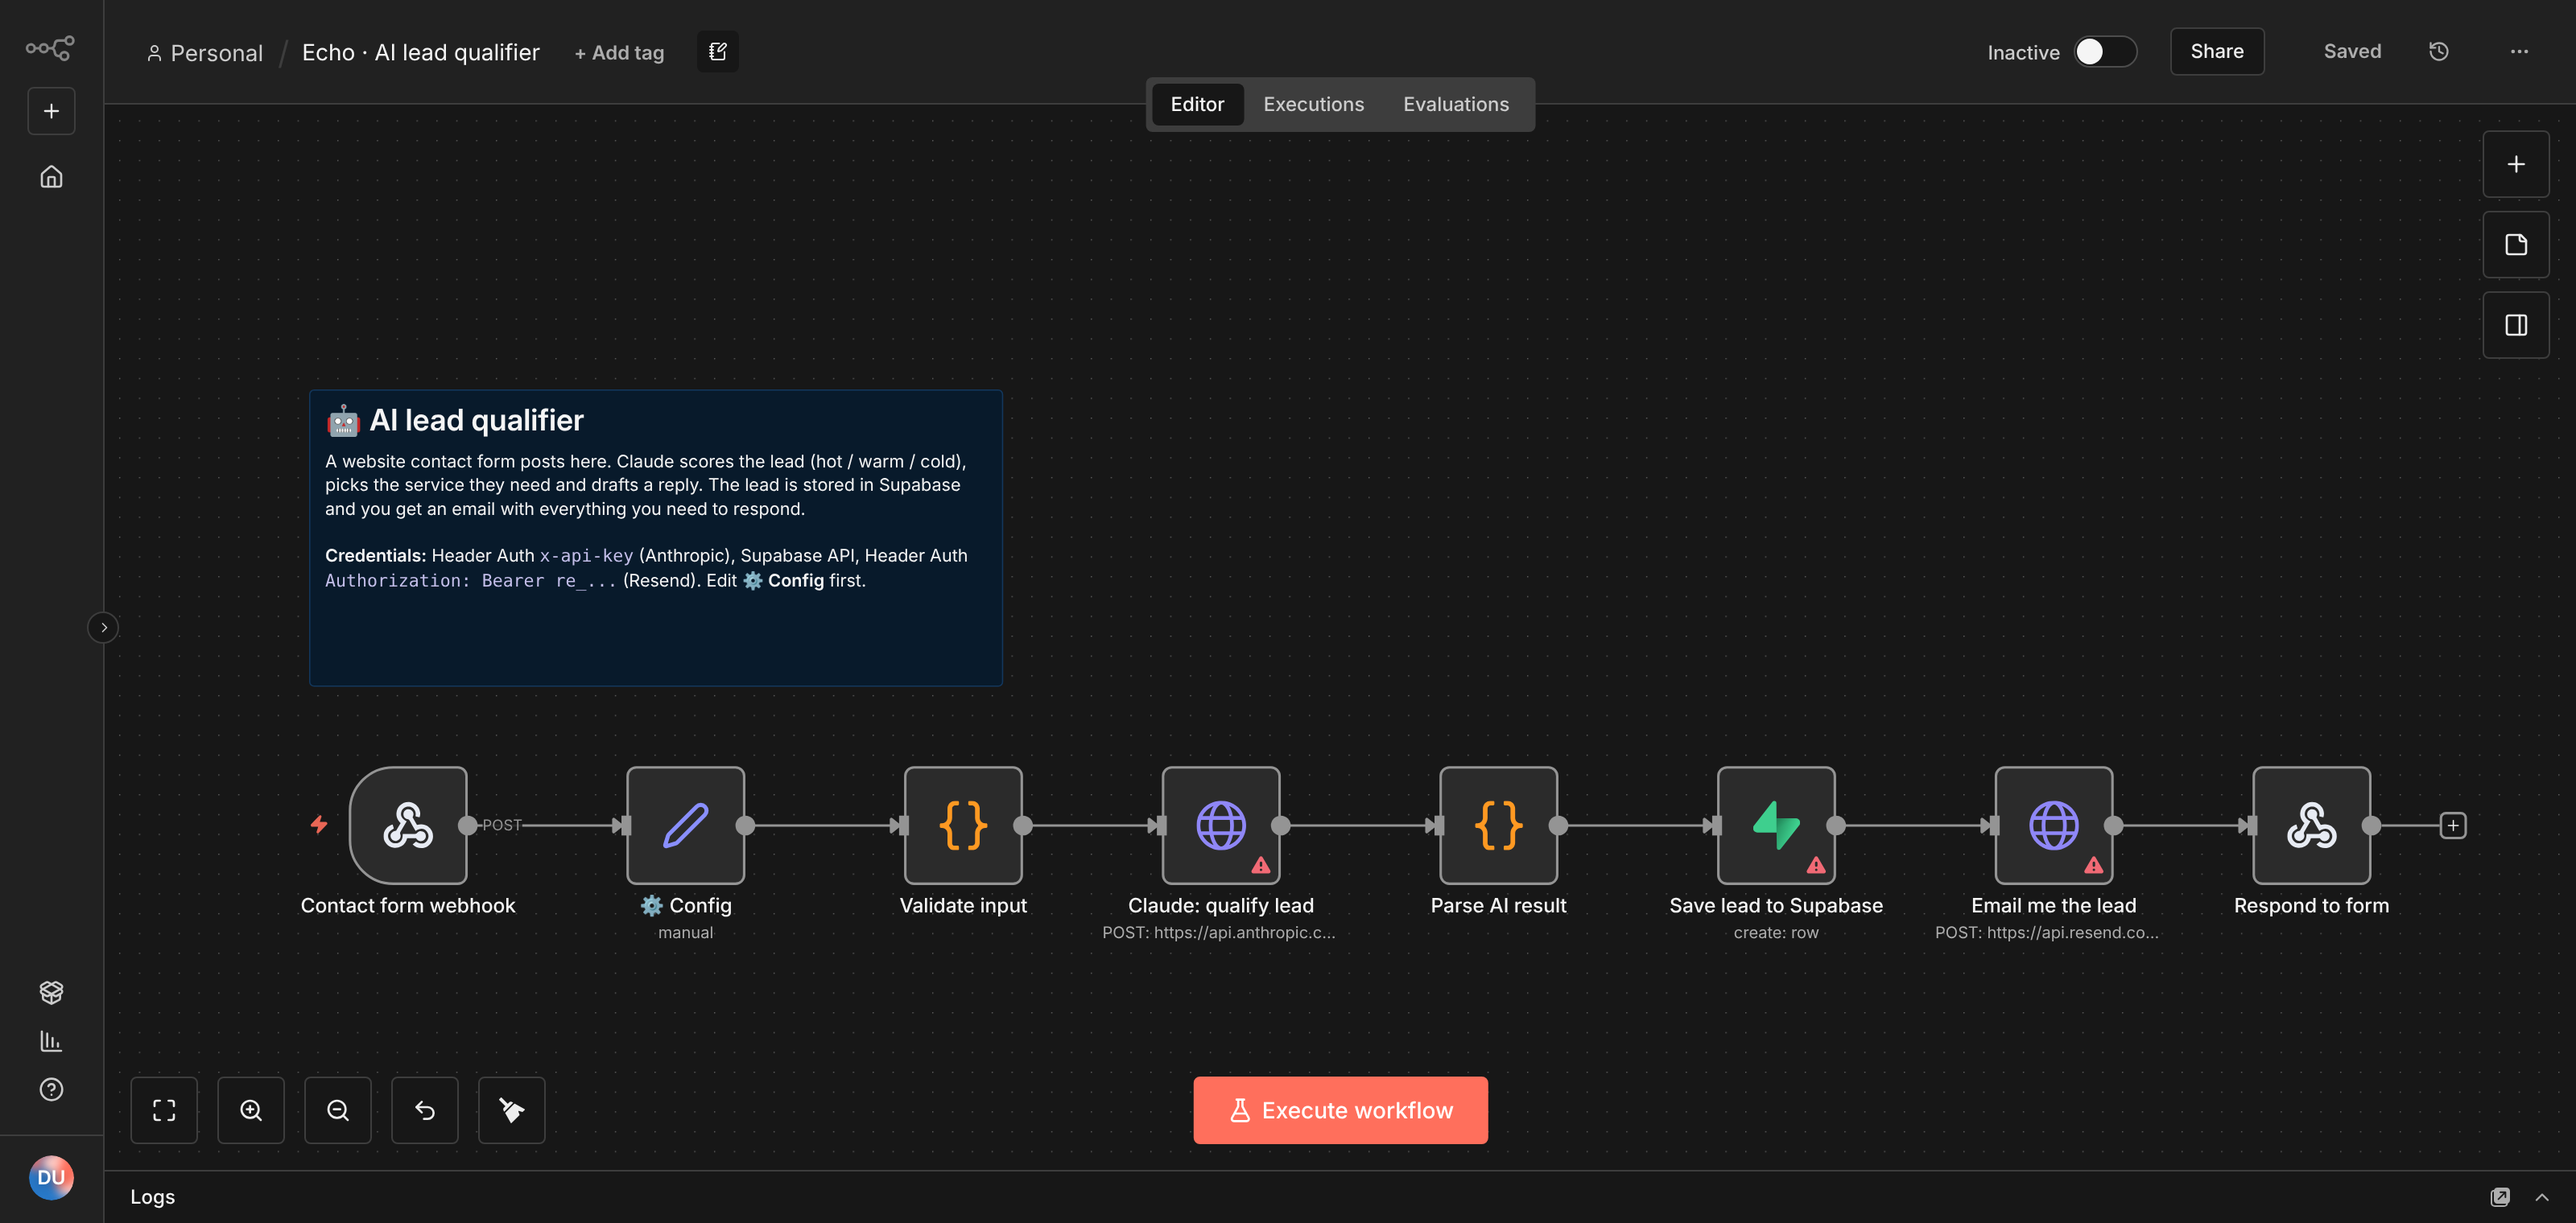
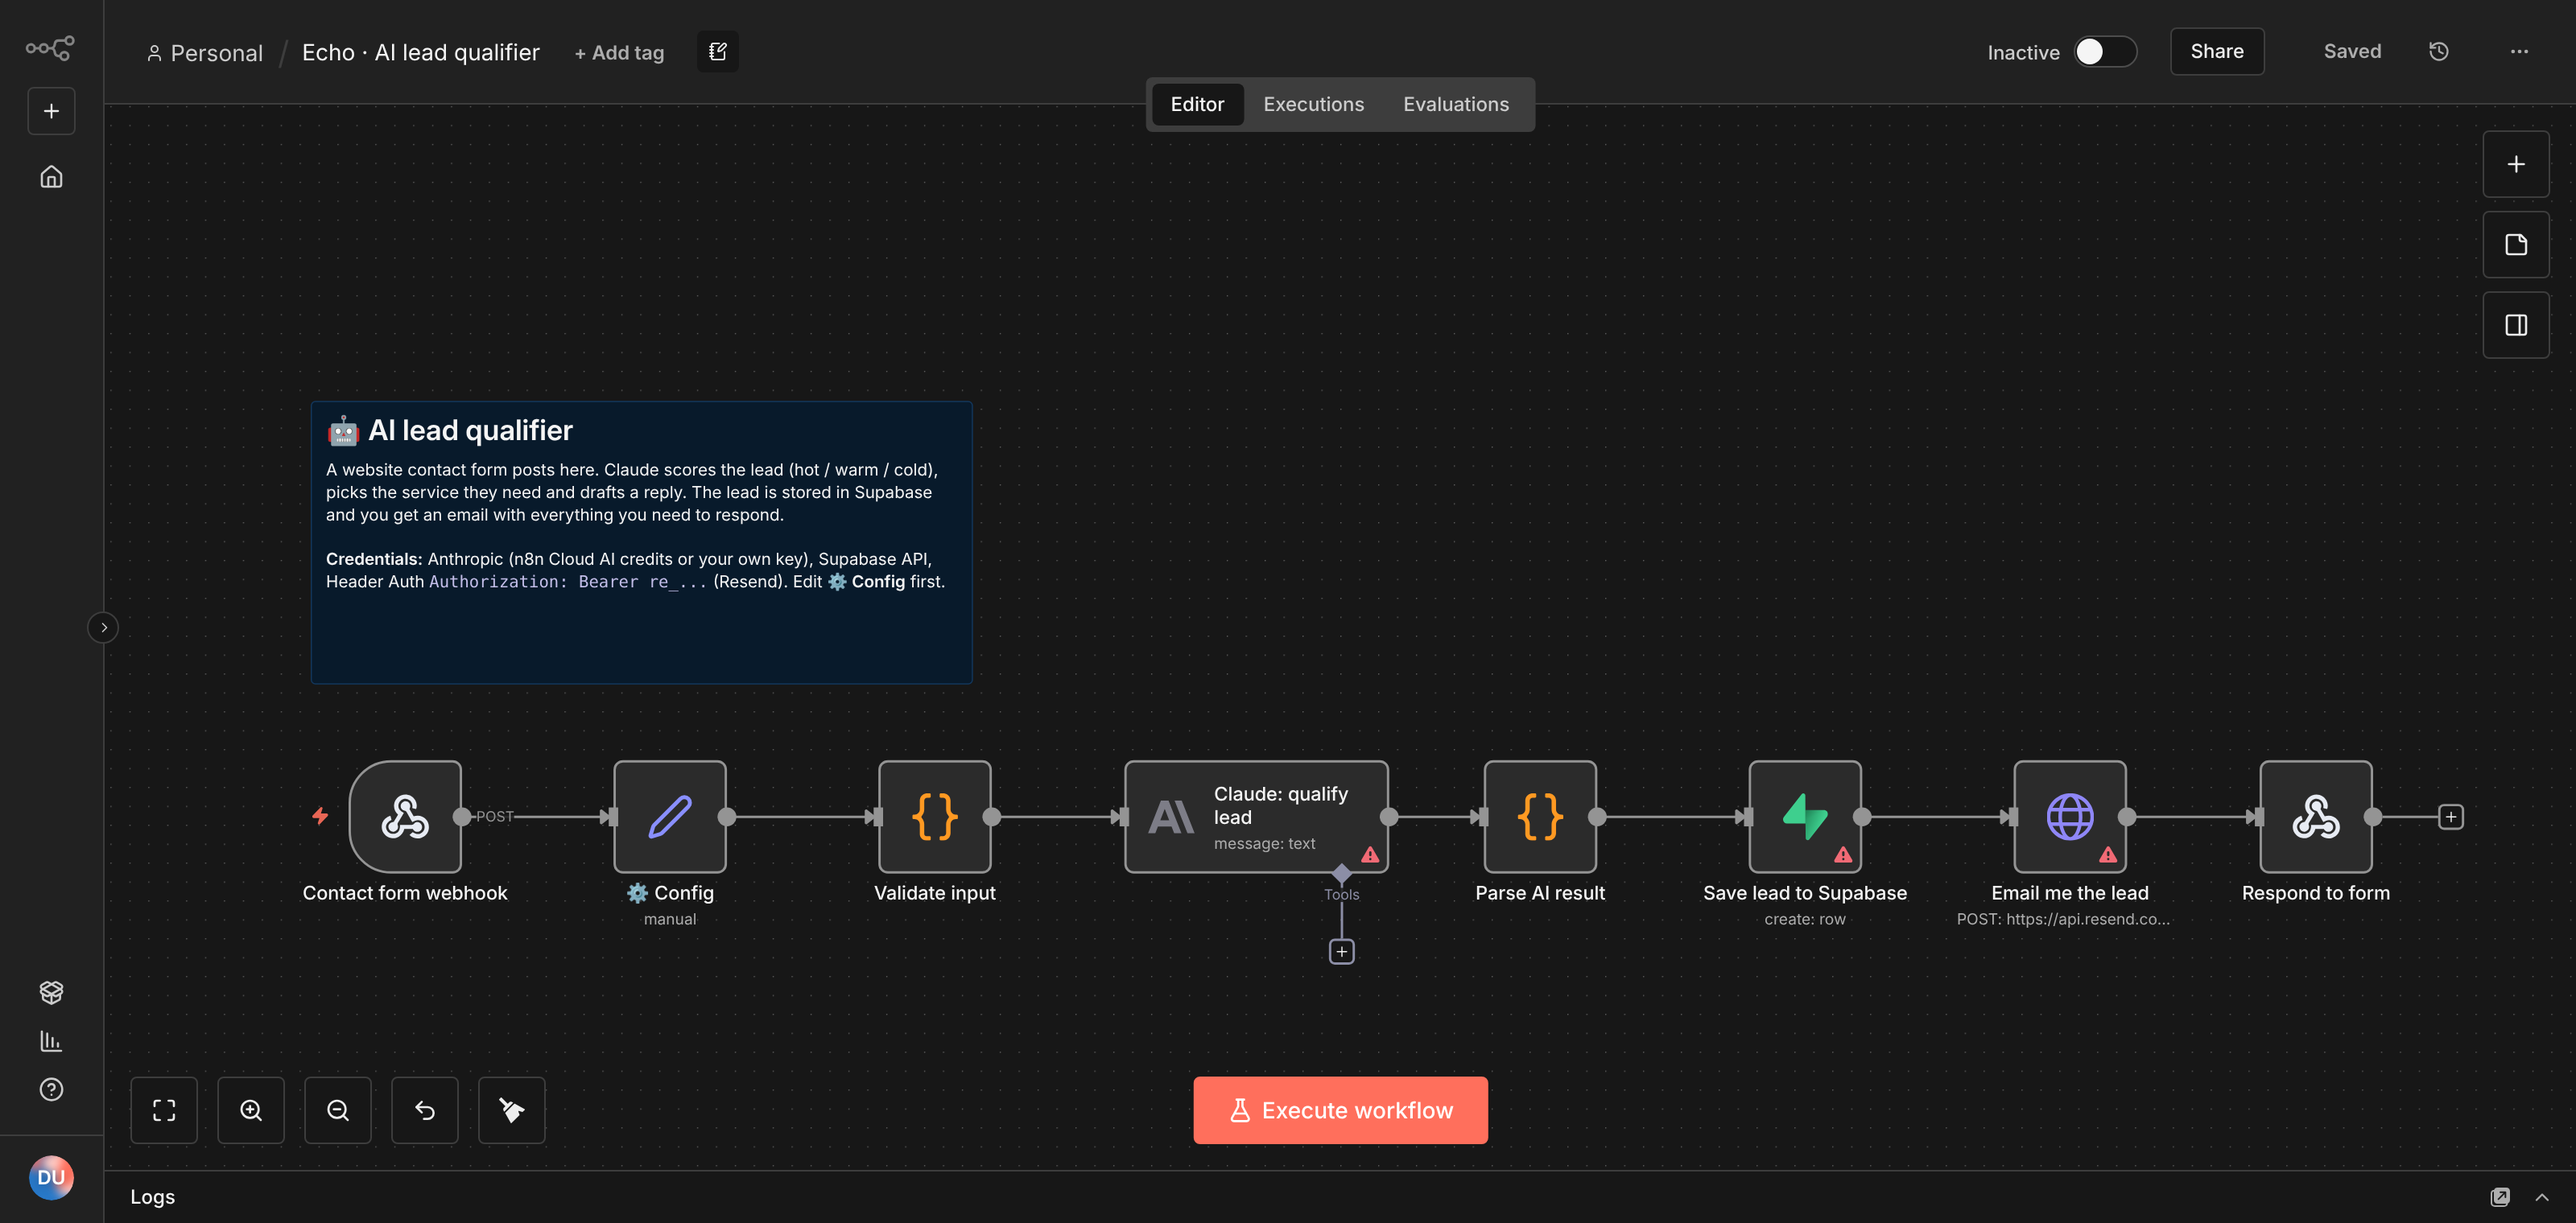
Sync with production workflows
Built-in Anthropic node, form need/budget fields, 2,000-token fix, email uptime alerts, updated screenshots

Changed region(s): [[0.125, 0.6184, 0.9688, 0.773], [0.125, 0.3092, 0.375, 0.4947], [0.2188, 0.7112, 0.2812, 0.773]]

diff --git a/README.md b/README.md
@@ -2,13 +2,13 @@
 
 **Production-style n8n automations for a small digital agency: AI lead qualification, reporting and monitoring.**
 
-I run [Echo Corp](https://echocorp.co.za), a Johannesburg web and automation agency. These are the kinds of workflows I build for the business and for clients, cleaned up and shared with **no credentials inside**. Import any of them into n8n, connect your own accounts and they run.
+I run [Echo Corp](https://echocorp.co.za), a Johannesburg web and automation agency. **These four workflows run in production for Echo Corp**: the lead qualifier is wired to the contact form on echocorp.co.za. They're exported here with **no credentials inside**. Import any of them into n8n, connect your own accounts and they run.
 
 | # | Workflow | Trigger | Connects | What it shows |
 |---|---|---|---|---|
-| 01 | [AI lead qualifier](workflows/01-ai-lead-qualifier.json) | Webhook | Claude API · Supabase · Resend | Webhooks, LLM structured output, input validation, error fallback |
+| 01 | [AI lead qualifier](workflows/01-ai-lead-qualifier.json) | Webhook (live site form) | Claude · Supabase · Resend | Webhooks, LLM structured output, input validation, error fallback |
 | 02 | [Daily lead digest](workflows/02-daily-lead-digest.json) | Schedule (08:00) | Supabase · Resend | Scheduled reporting, date filters, HTML email |
-| 03 | [Client site uptime monitor](workflows/03-uptime-monitor.json) | Schedule (15 min) | HTTP · Twilio WhatsApp | Stateful alerting (no alert spam), error handling |
+| 03 | [Client site uptime monitor](workflows/03-uptime-monitor.json) | Schedule (15 min) | HTTP · Resend | Stateful alerting (no alert spam), error handling |
 | 04 | [Weekly stats report](workflows/04-weekly-stats-report.json) | Schedule (Mon 07:00) | Supabase · Resend | Data aggregation, week-on-week analysis |
 
 ---
@@ -24,12 +24,14 @@ flowchart LR
   E --> F[(Supabase<br/>leads)] --> G[Email me<br/>the lead] --> H[Respond<br/>to form]
 ```
 
-A website contact form posts to the webhook. The workflow:
-1. **Validates** the input (name, valid email, real message) before spending any AI tokens.
-2. Asks **Claude** to return strict JSON: a `hot` / `warm` / `cold` score, the service needed, a 25-word summary and a draft reply.
+The contact form on echocorp.co.za posts to the webhook (name, business, email, phone, *What do you need?*, *Budget*, optional message). The workflow:
+1. **Validates** the input (name, valid email, and either a need or a message) and folds the dropdowns into one message, before spending any AI tokens.
+2. Asks **Claude** (n8n's built-in Anthropic node) to return strict JSON: a `hot` / `warm` / `cold` score, the service needed, a 25-word summary and a draft reply.
 3. **Parses** the JSON defensively. If the model ever returns something unexpected, the lead is still saved and flagged for manual review instead of being lost.
 4. **Saves** the lead to Supabase and **emails** me a summary with the suggested reply, so a hot lead can be answered in minutes.
 5. **Responds** to the form with a thank-you message.
+
+**Lessons from production:** the first live submission had an empty message field and was rejected, so validation now accepts the dropdowns alone. Another came back with Claude's JSON cut off because the model uses tokens to think before answering, so `maxTokens` went from 600 to 2,000. The parse step's fallback meant neither lead was lost.
 
 Test it with [`test/send-test-lead.sh`](test/send-test-lead.sh).
 
@@ -50,10 +52,10 @@ Every morning it pulls the last 24 hours of leads, sorts them hot → cold and s
 
 ```mermaid
 flowchart LR
-  A[Every<br/>15 min] --> B[Client sites] --> C[Check site<br/>HTTP GET] --> D[Detect changes] --> E[WhatsApp alert]
+  A[Every<br/>15 min] --> B[Client sites] --> C[Check site<br/>HTTP GET] --> D[Detect changes] --> E[Config] --> F[Email alert]
 ```
 
-Checks every client website every 15 minutes. It remembers each site's last state in **workflow static data**, so it sends **one** WhatsApp message when a site goes down and **one** when it recovers, instead of one every 15 minutes. Timeouts and DNS failures are caught (`continueRegularOutput`) and counted as "down" rather than crashing the run.
+Checks every client website every 15 minutes. It remembers each site's last state in **workflow static data**, so it sends **one** email when a site goes down and **one** when it recovers, instead of one every 15 minutes. Timeouts and DNS failures are caught (`continueRegularOutput`) and counted as "down" rather than crashing the run.
 
 ## 04 · Weekly stats report
 
@@ -76,24 +78,23 @@ This is the n8n version of an **Excel VBA macro I wrote that turned a 3-hour wee
 
    | Credential | Type in n8n | Value |
    |---|---|---|
-   | Anthropic | Header Auth | Name `x-api-key`, value your Anthropic key |
+   | Anthropic | Anthropic API | n8n Cloud's included AI credits, or your own Anthropic key |
    | Resend | Header Auth | Name `Authorization`, value `Bearer re_...` |
-   | Supabase | Supabase API | Project URL + service-role key |
-   | Twilio | Twilio API | Account SID + auth token (WhatsApp sandbox works for testing) |
+   | Supabase | Supabase API (or Supabase OAuth2) | Project URL + service-role key, or connect with OAuth and pick the project |
 
-4. Edit the **⚙ Config** node in each workflow: your email, sender address and model.
-5. Run once with **Test workflow**, then switch it to **Active**.
+4. Edit the **⚙ Config** node in each workflow: your email and sender address. In workflow 03, list your sites in **Client sites**.
+5. Run once with **Execute workflow**, then **Publish** it.
 
 ## Design choices
 
 - **No secrets in the repo.** Every key lives in n8n credentials. The JSON files only hold placeholders.
 - **Config in one node.** Emails, model names and business details sit in a single Set node at the start of each flow, so a client copy takes one edit.
-- **Cheap model where it's enough.** Lead scoring uses Claude Haiku. Change `model` in Config to use a larger one.
+- **Cheap model where it's enough.** Lead scoring uses Claude Haiku. Pick a larger model on the Claude node if you need one.
 - **Fail loudly, not silently.** Bad input throws early, AI parse failures fall back to manual review, and the digest always sends.
 
 ## Built with
 
-n8n · Anthropic Claude API · Supabase (PostgreSQL) · Resend · Twilio · JavaScript
+n8n · Anthropic Claude · Supabase (PostgreSQL) · Resend · JavaScript
 
 ---
 
